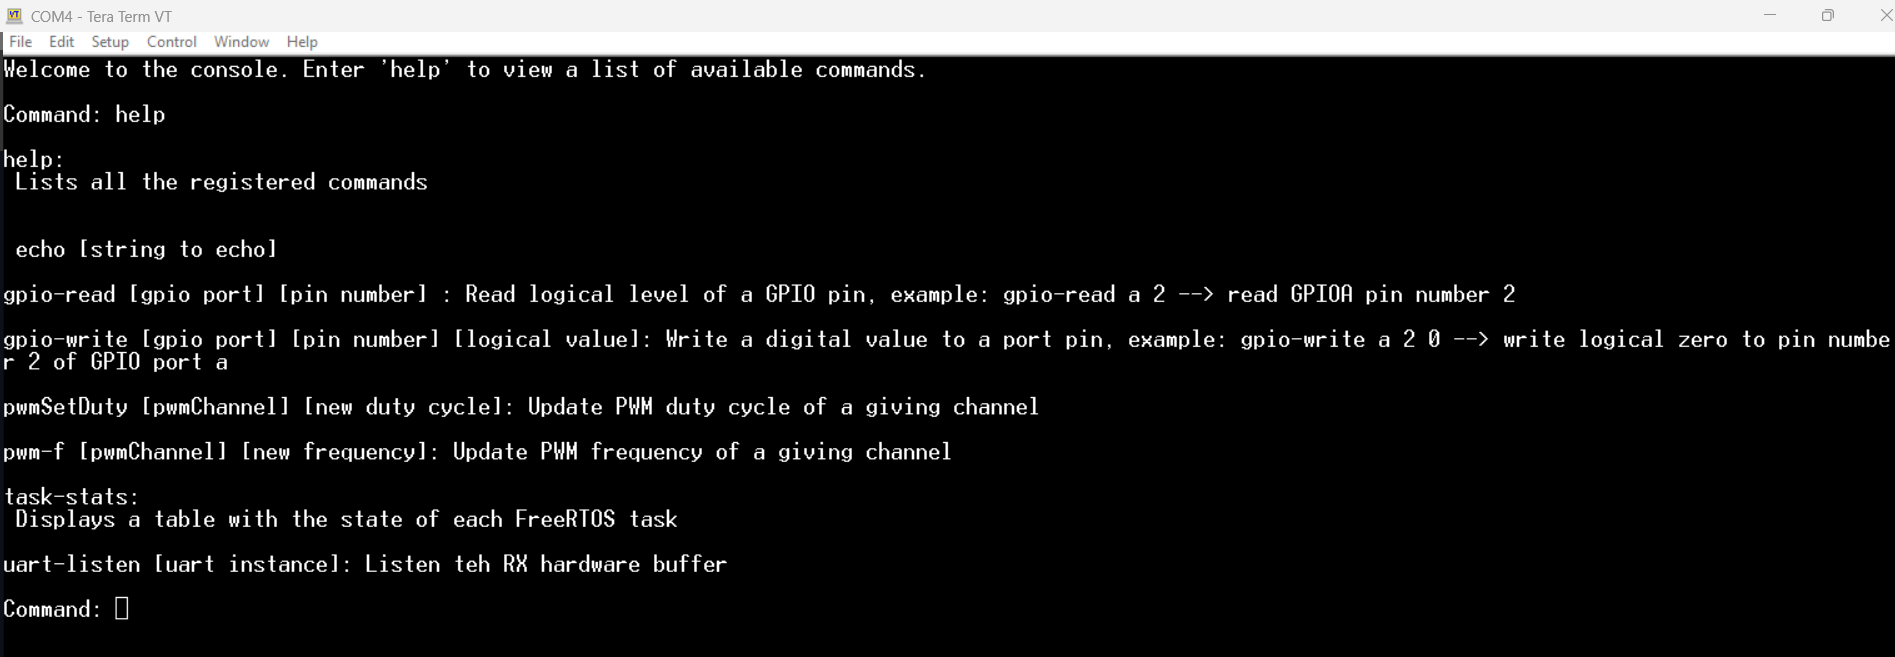
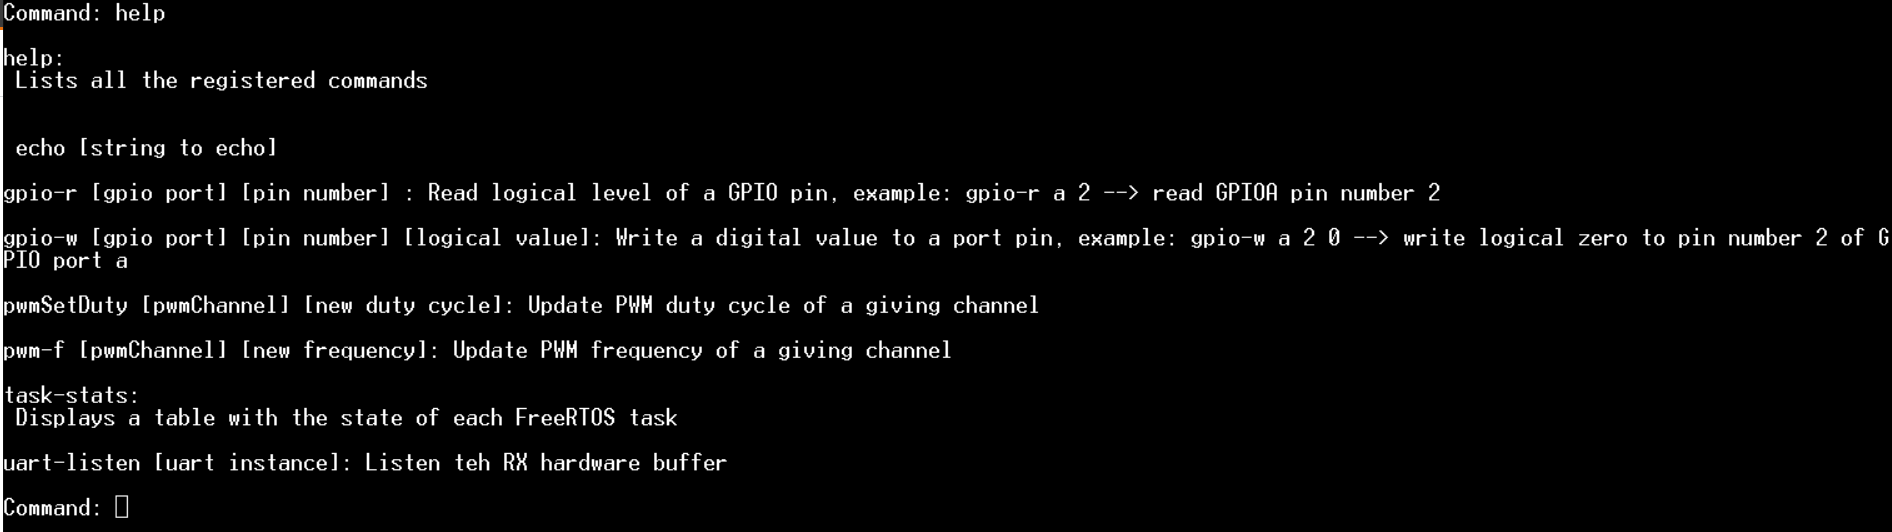
update readme

diff --git a/README.md b/README.md
@@ -1,2 +1,34 @@
 # CLI-console-FreeRTOS
 ![helpCommand](/img/helpCommand.png)
+
+# Available commands 
+
+* GPIO read operation
+```
+gpio-r [GPIO PORT] [GPIO pin number]
+
+Example: Read GPIO port A pin number 2
+
+gpio-r A 2 
+```
+
+* GPIO write operation
+```
+gpio-w [GPIO PORT] [GPIO pin number] [New pin state]
+
+Example: Write 1 to GPIO port C pin number 12
+
+gpio-w C 12 1 
+```
+
+* Task information 
+
+Shows a list with relevant information of each task such as task name, 
+state, priority, stack remaining, CPU usage and runtime.
+
+```
+task-stats 
+```
+![task-stats](/img/taskStatsCommand.png)
+
+
